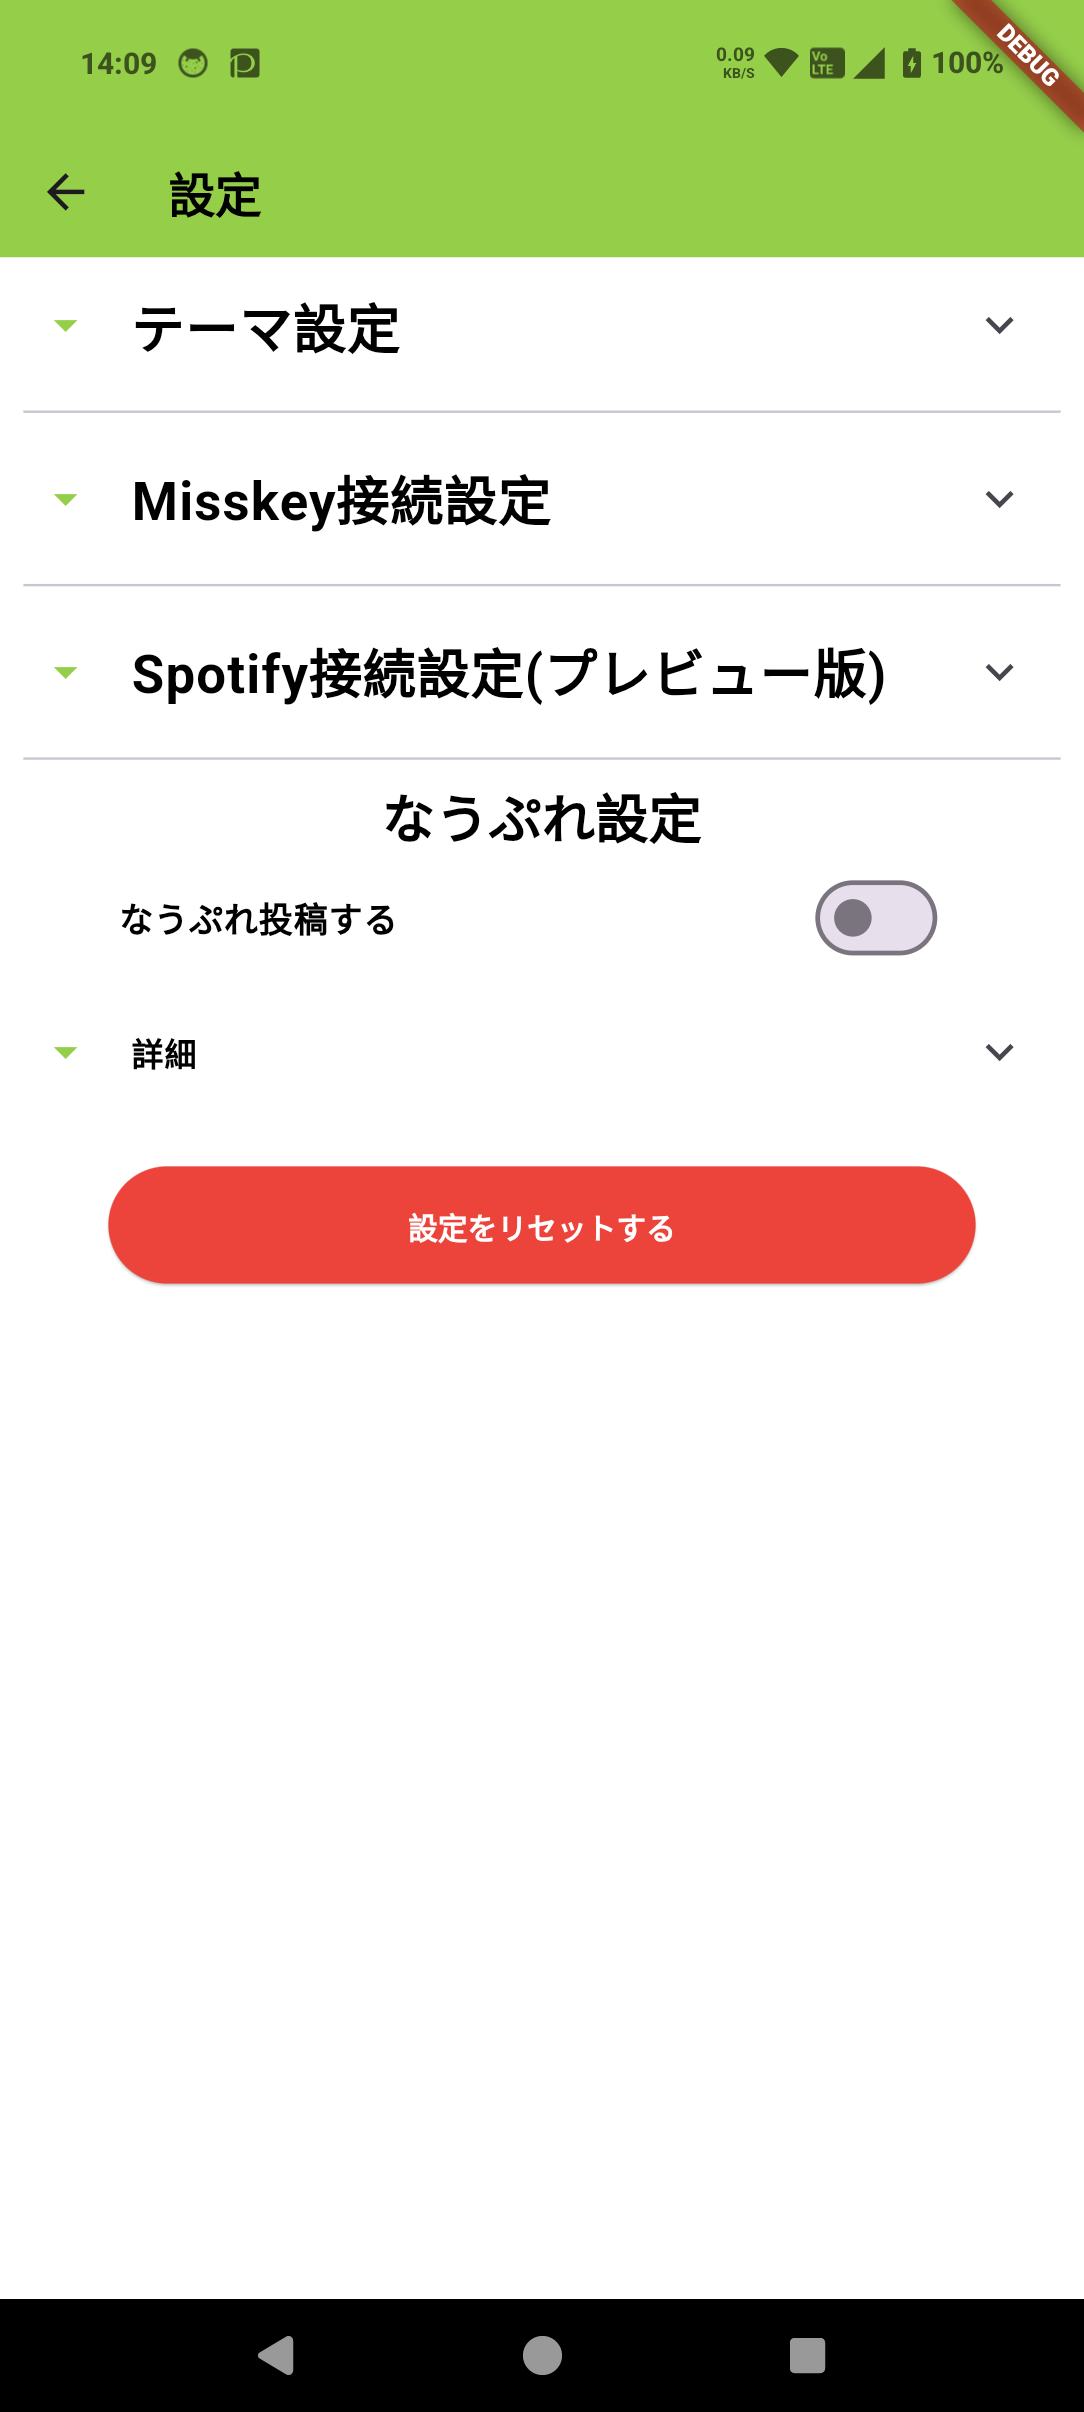
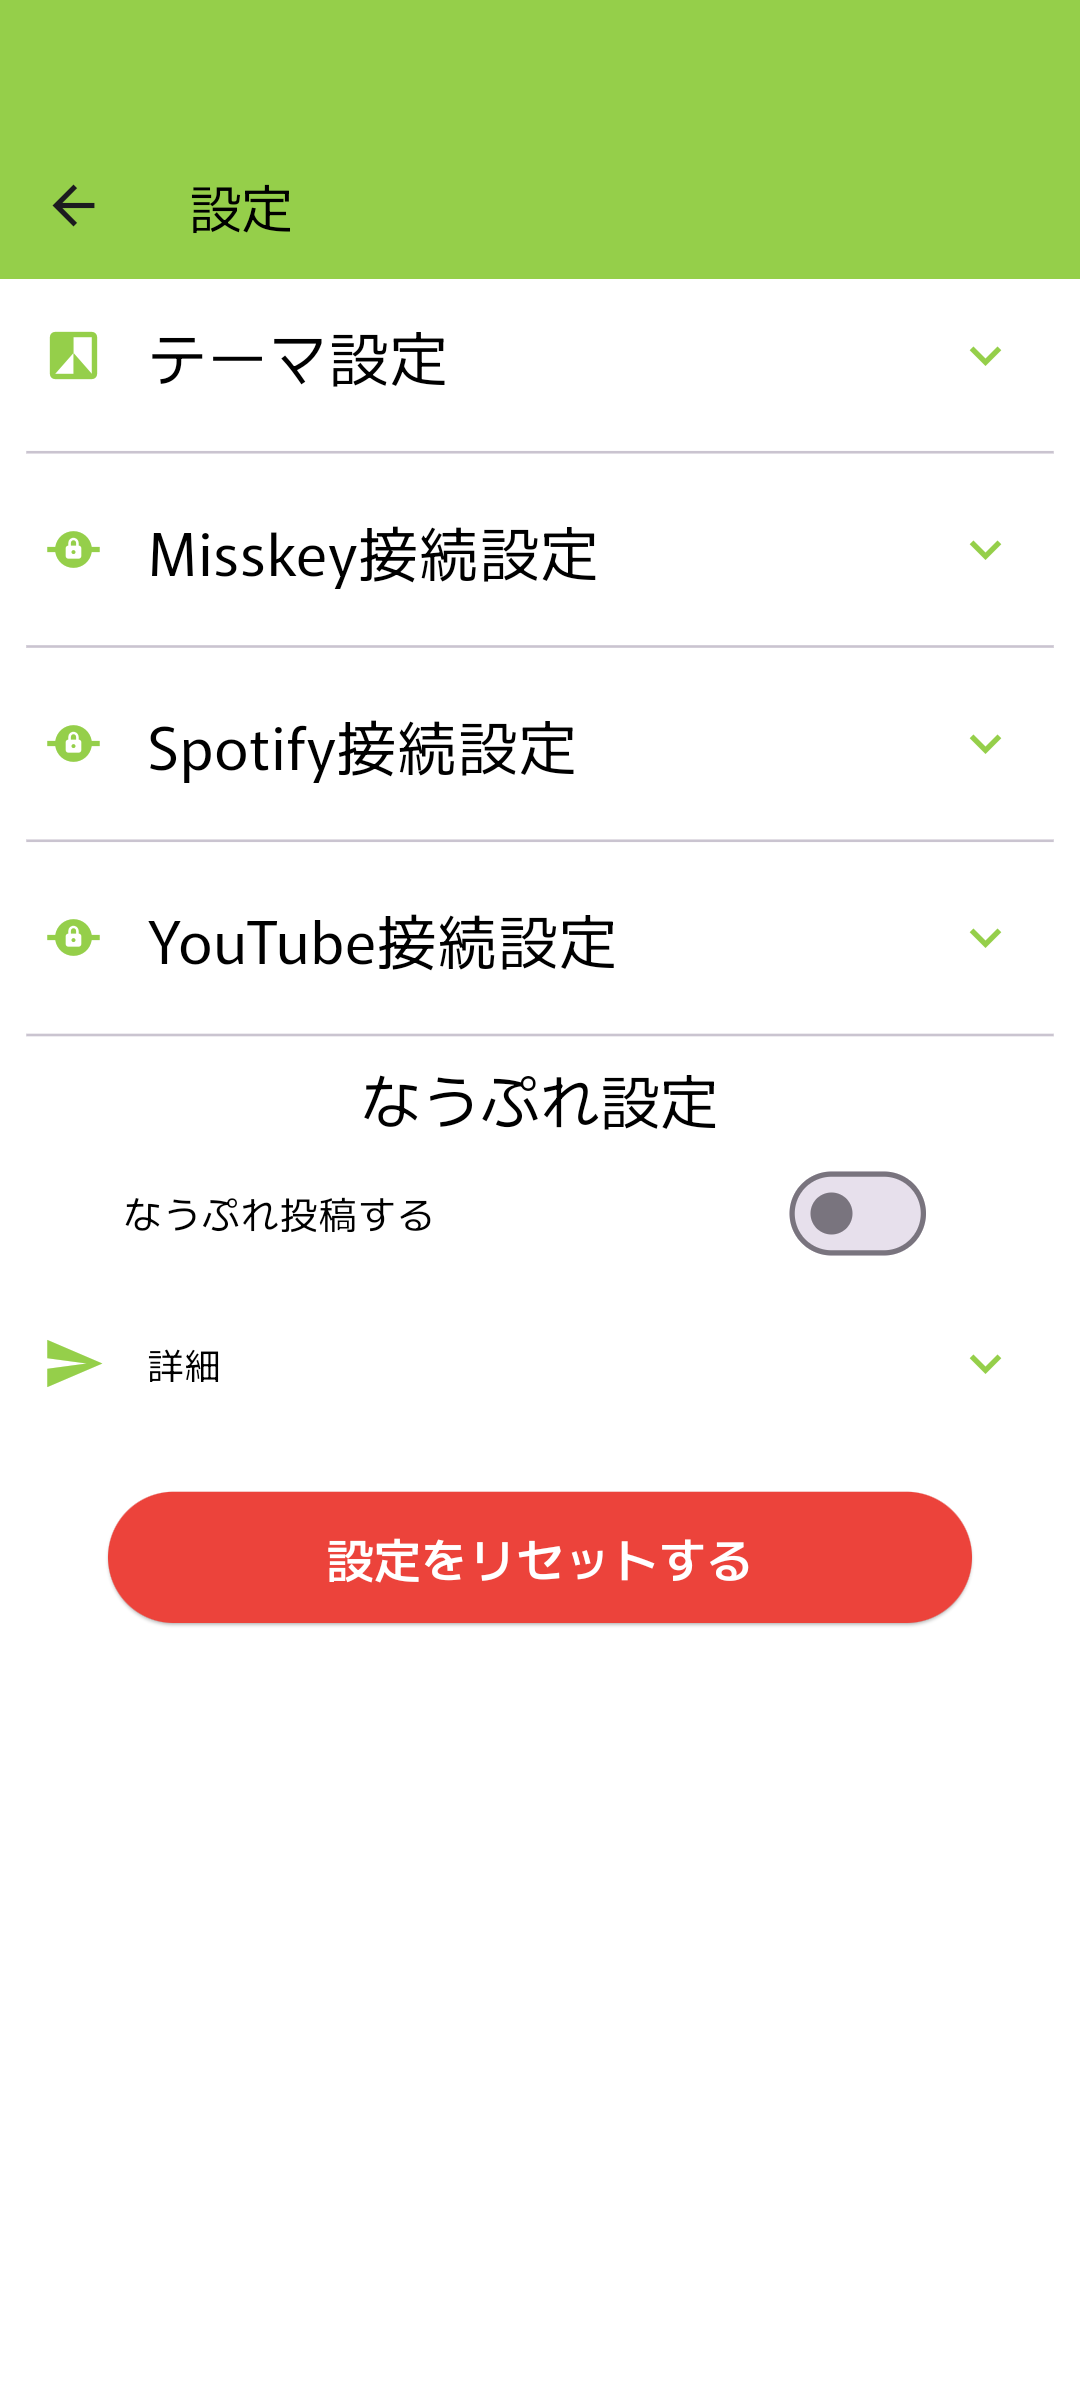
一部のキャプチャをスマートフォンの枠付きに変更しました。

diff --git a/docs/misskey-setting.html b/docs/misskey-setting.html
@@ -5,6 +5,7 @@
 
     <meta charset="UTF-8">
     <link rel="stylesheet" href="./css/style-notes.css">
+    <link rel="stylesheet" href="./css/details.css">
     <meta name="viewport" content="width=device-width, initial-scale=1.0">
     <title>Misskeyとの連携</title>
     <link rel="shortcut icon" type="image/x-icon" href="./images/favicon.ico">
@@ -63,47 +64,81 @@
         <ol>
             <li><span class="hover-text" data-image="images/display-setting.png"></span>の<span
                     class="button-like-text"><span class="material-icons"
-                        style="font-size: 1.2em; vertical-align: middle;">filter_b_and_w</span>Misskey接続設定</span>を押下して、設定項目を展開してください。
+                        style="font-size: 1.2em; vertical-align: middle;">private_connectivity</span>Misskey接続設定</span>を押下して、設定項目を展開してください。
             </li>
             <div class="screenshots">
-                <a href="./images/misskey1.png" data-lightbox="misskey-group"><img src="./images/misskey1.png" alt=""
+                <a href="./images/misskey1_framed.png" data-lightbox="misskey-group"><img src="./images/misskey1_framed.png" alt=""
                         width="35%"></a>
-                <a href="./images/misskey2.png" data-lightbox="misskey-group"><img src="./images/misskey2.png" alt=""
+                <a href="./images/misskey2_framed.png" data-lightbox="misskey-group"><img src="./images/misskey2_framed.png" alt=""
                         width="35%"></a>
                 <p>Misskey接続設定<code id="version"></code></p>
             </div>
+
+            <details class="details">
+                <summary class="summary">接続先サーバーの変更</summary>
+                <div class="content">
+                    <p><span class="button-like-text"><span class="material-icons"
+                                style="font-size: 1.2em; vertical-align: middle;">private_connectivity</span>Misskey接続設定</span>の<span
+                            class="button-like-text">サーバー選択</span>を押下してください。</p>
+                    <div class="box-memo">
+                        <p>
+                            接続先を変更した場合は認証作業を再度行ってください。
+                        </p>
+                    </div>
+                    <h3><a href="https://misskey-hub.net/ja/servers/">Misskey
+                            Hubのサーバー一覧</a>に掲載されているサーバーへ接続する場合</h3>
+                    <ol>
+                        <li>サーバー名またはドメイン名で接続したいサーバーを検索してください。</li>
+                        <div class="screenshots">
+                            <a href="./images/misskey11_framed.png" data-lightbox="server-group"><img
+                                    src="./images/misskey11_framed.png" alt="" width="35%"></a>
+                        </div>
+                        <li>サーバーを押下することで、接続先が変更されます。</li>
+                    </ol>
+                    <h3>掲載されていないサーバーへ接続する場合</h3>
+                    <ol>
+                        <li><span class="button-like-text">一覧にないサーバーへ接続する</span>を押下してください。</li>
+                        <li>表示されるダイアログに接続先のサーバーのドメイン名を入力して<span class="button-like-text">OK</span>を押下してください。</li>
+                        <div class="screenshots">
+                            <a href="./images/misskey12_framed.png" data-lightbox="server-group"><img
+                                    src="./images/misskey12_framed.png" alt="" width="35%"></a>
+                        </div>
+                    </ol>
+                </div>
+            </details>
+
             <li><span class="button-like-text">認証する</span>を押下して、アプリへのアクセス許可ページにアクセスしてください。</li>
             <li>「なうぷれ投稿」したいMisskeyアカウントのユーザー名、パスワードを入力してログインを押下してください。</li>
             <div class="screenshots">
-                <a href="./images/misskey3_framed.png" data-lightbox="misskey-group"><img src="./images/misskey3_framed.png" alt=""
-                        width="35%"></a>
+                <a href="./images/misskey3_framed.png" data-lightbox="misskey-group"><img
+                        src="./images/misskey3_framed.png" alt="" width="35%"></a>
             </div>
             <li>以下の図のように二要素認証の入力を要求された場合は、こちらの手順で作成した認証コードを入力してログインを押下してください。</li>
             <div class="screenshots">
-                <a href="./images/misskey4_framed.png" data-lightbox="misskey-group"><img src="./images/misskey4_framed.png" alt=""
-                        width="35%"></a>
+                <a href="./images/misskey4_framed.png" data-lightbox="misskey-group"><img
+                        src="./images/misskey4_framed.png" alt="" width="35%"></a>
             </div>
             <li>以下の図のようなアクセス許可ページが表示されるので、<span class="button-like-text">許可</span>を押下してください。</li>
             <div class="screenshots">
-                <a href="./images/misskey5_framed.png" data-lightbox="misskey-group"><img src="./images/misskey5_framed.png" alt=""
-                        width="35%"></a>
+                <a href="./images/misskey5_framed.png" data-lightbox="misskey-group"><img
+                        src="./images/misskey5_framed.png" alt="" width="35%"></a>
             </div>
             <li>以下の図のような認証完了ページが表示されたら、BaconJamに戻ってください。</li>
             <div class="screenshots">
-                <a href="./images/misskey6_framed.png" data-lightbox="misskey-group"><img src="./images/misskey6_framed.png" alt=""
-                        width="35%"></a>
+                <a href="./images/misskey6_framed.png" data-lightbox="misskey-group"><img
+                        src="./images/misskey6_framed.png" alt="" width="35%"></a>
             </div>
             <li>連携に成功している場合以下の図のようなダイアログが表示されます。</li>
+            <div class="screenshots">
+                <a href="./images/misskey7_framed.png" data-lightbox="misskey-group"><img src="./images/misskey7_framed.png" alt=""
+                        width="35%"></a>
+            </div>
             <div class="box-caution">
                 <p>
                     <span class="button-like-text">許可</span>を押下する前にBaconJamに戻ったり、<span
                         class="button-like-text">キャンセル</span>を押下すると認証に失敗します。その場合は、再度<span
                         class="button-like-text">認証する</span>を押下するところから行ってください。
                 </p>
-            </div>
-            <div class="screenshots">
-                <a href="./images/misskey7.png" data-lightbox="misskey-group"><img src="./images/misskey7.png" alt=""
-                        width="35%"></a>
             </div>
         </ol>
         <h2>発行したアクセストークンの確認・削除</h2>

diff --git a/docs/spotify-setting.html b/docs/spotify-setting.html
@@ -199,9 +199,9 @@
             <li><span class="hover-text" data-image="images/display-setting.png"></span>の<span class="button-like-text">Spotify接続設定</span>を押下して、設定項目を展開してください。</li>
         </ol>
         <div class="screenshots">
-            <a href="./images/spotify10.png" data-lightbox="misskey-group"><img src="./images/spotify10.png" alt=""
+            <a href="./images/spotify10_framed.png" data-lightbox="misskey-group"><img src="./images/spotify10_framed.png" alt=""
                     width="35%"></a>
-            <a href="./images/spotify11.png" data-lightbox="misskey-group"><img src="./images/spotify11.png" alt=""
+            <a href="./images/spotify11_framed.png" data-lightbox="misskey-group"><img src="./images/spotify11_framed.png" alt=""
                     width="35%"></a>
             <p>Spotify接続設定<code id="version"></code></p>
         </div>
@@ -210,7 +210,7 @@
                     class="button-like-text">Spotify接続設定</span>に入力してください。</li>
         </ol>
         <div class="screenshots">
-            <a href="./images/spotify12.png" data-lightbox="misskey-group"><img src="./images/spotify12.png" alt=""
+            <a href="./images/spotify12_framed.png" data-lightbox="misskey-group"><img src="./images/spotify12_framed.png" alt=""
                     width="35%"></a>
         </div>
         <ol start="3">
